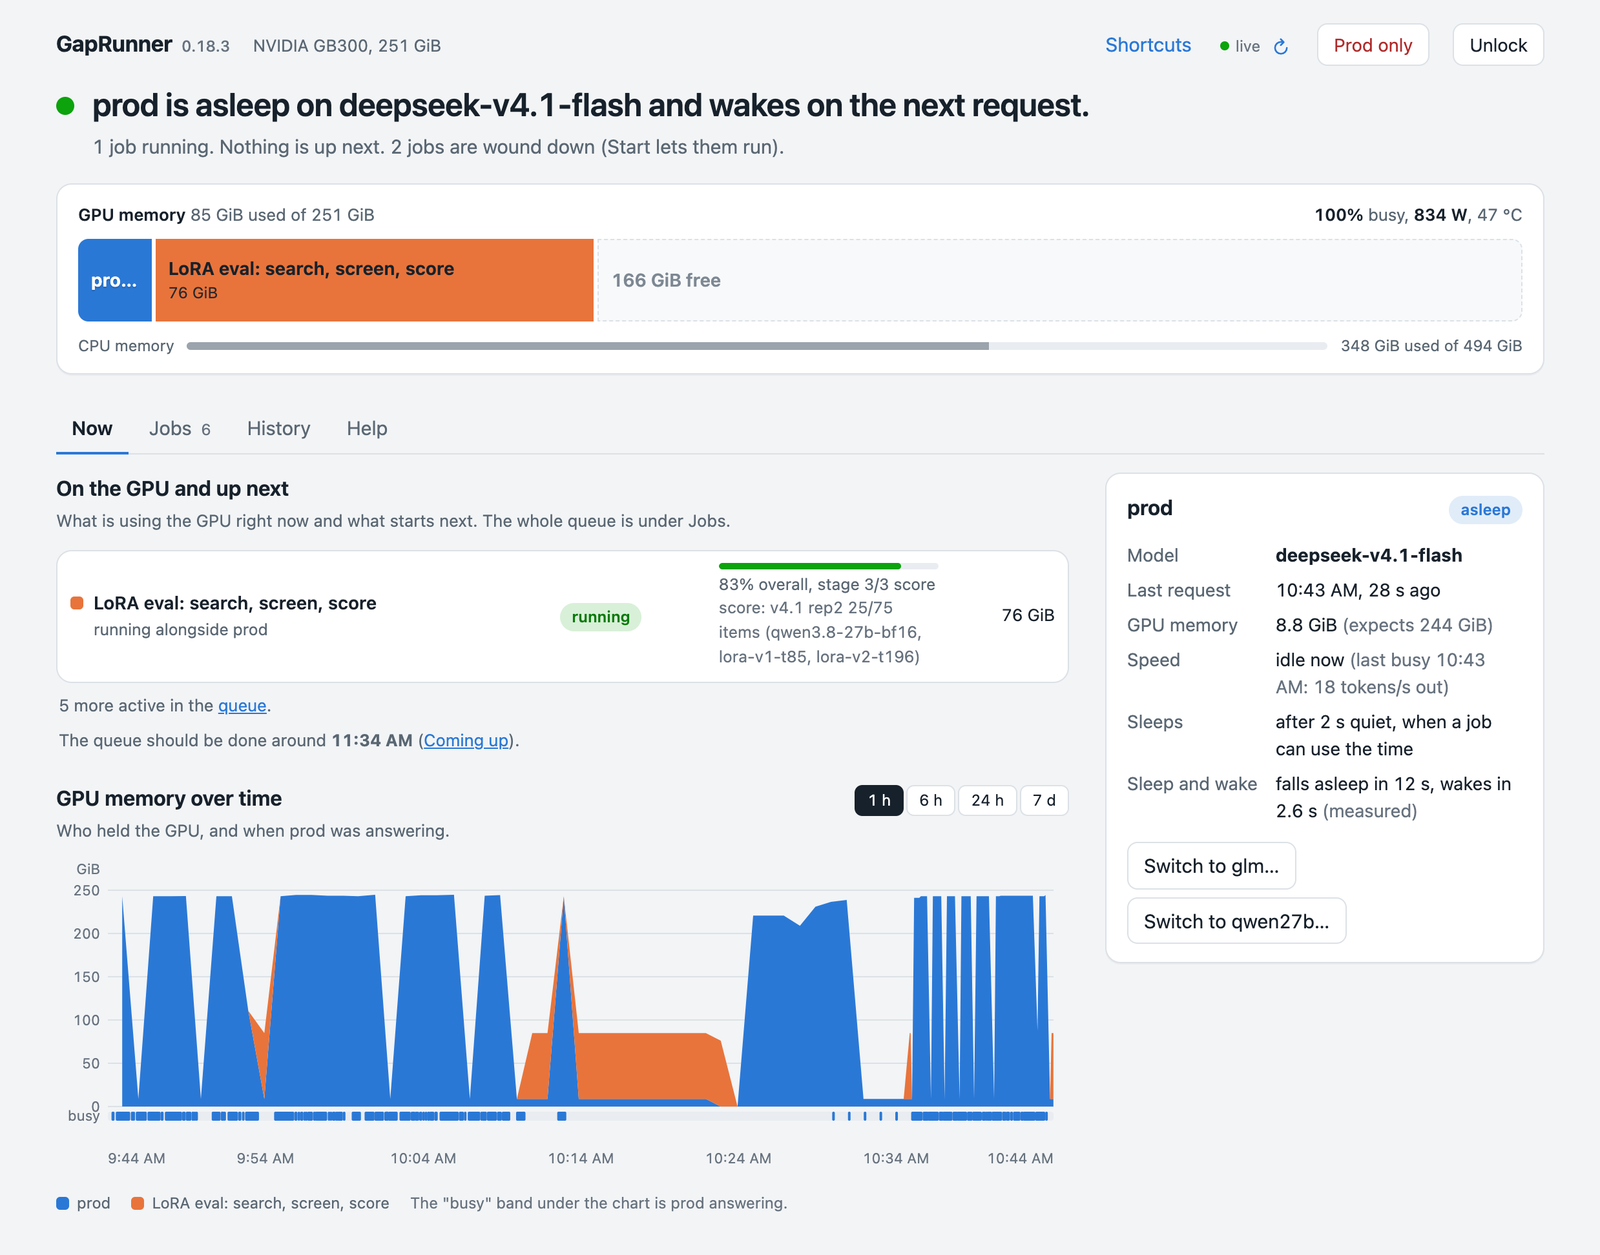
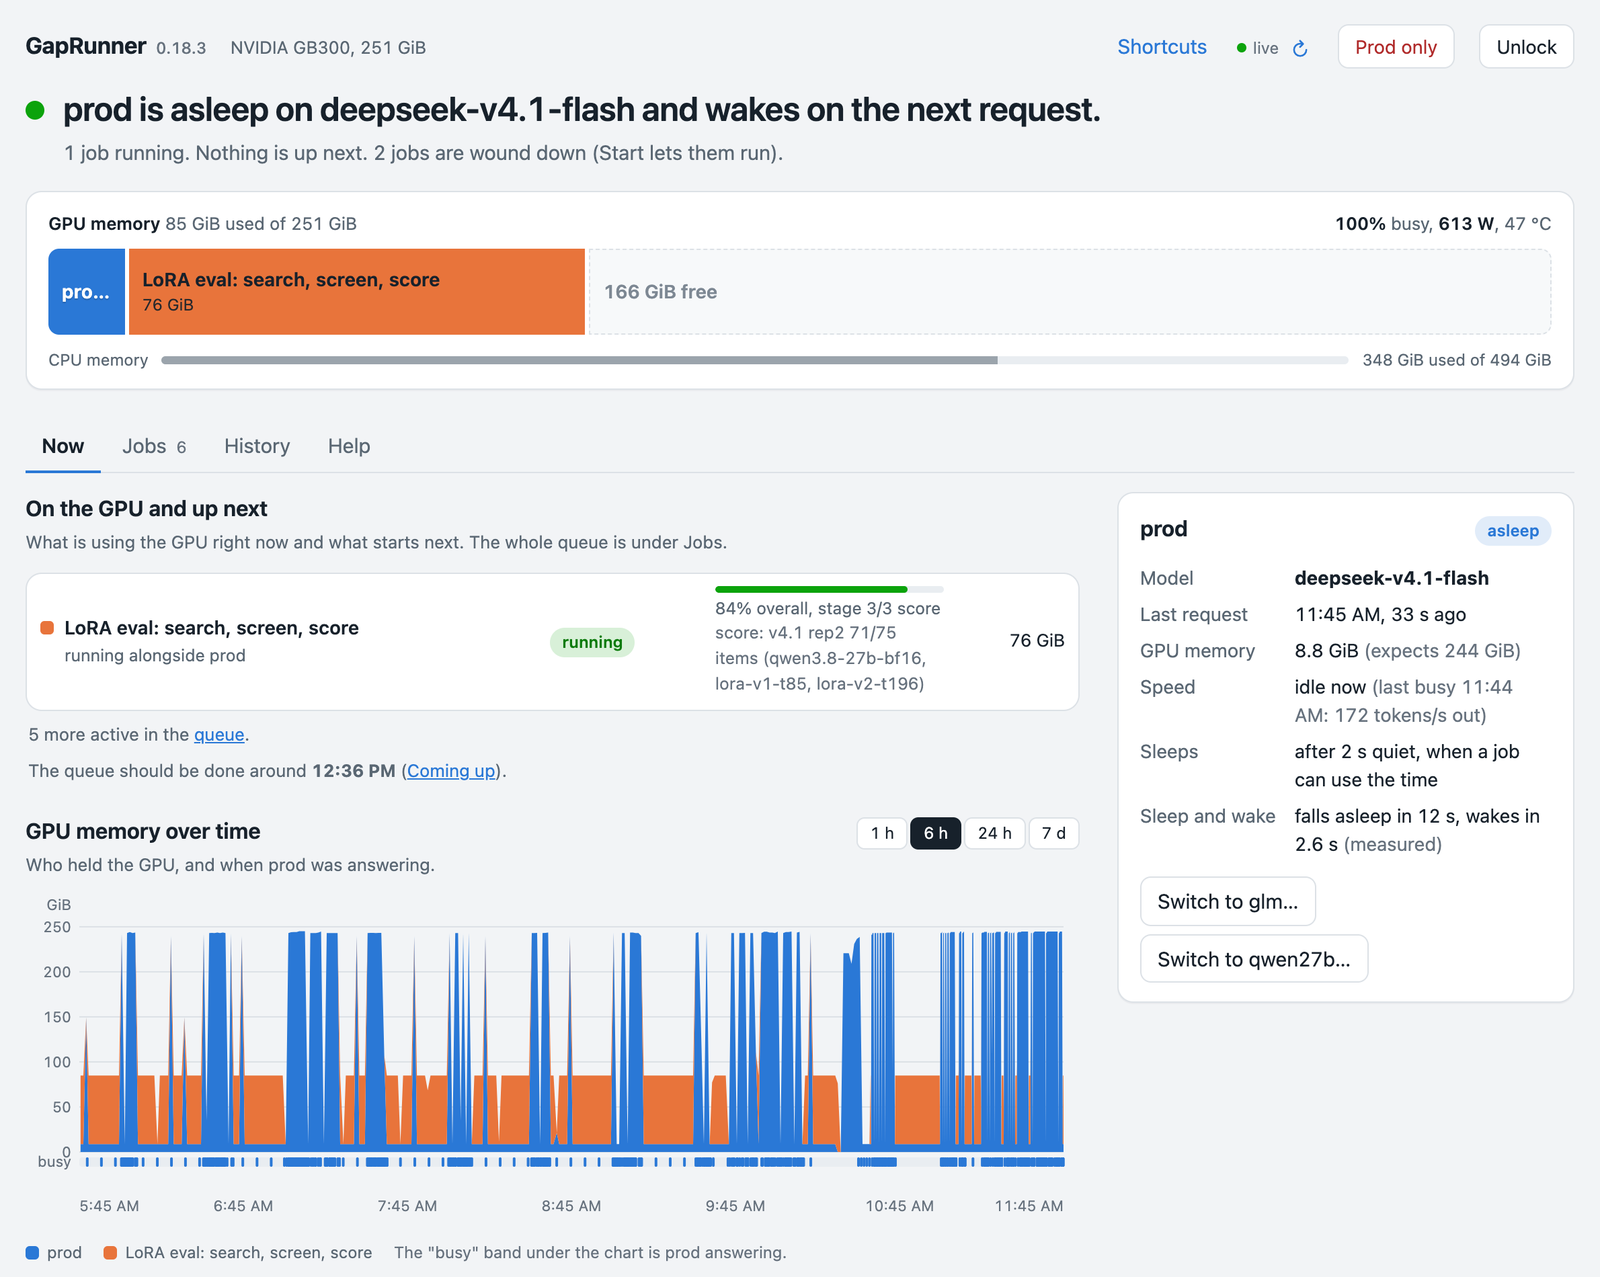
README: six-hour screenshot of the Now page

diff --git a/README.md b/README.md
@@ -2,7 +2,7 @@
 
 **Run training, evals and benchmarks in the idle gaps of your always-on local model, and give the GPU back the moment a request arrives.**
 
-![The GapRunner page: the model server asleep, an eval job holding 76 GiB of GPU memory, and the last hour of the two taking turns](docs/images/gaprunner-now.png)
+![The GapRunner page: the model server asleep, an eval job holding 76 GiB of GPU memory, and the last six hours of the two taking turns](docs/images/gaprunner-now.png)
 
 A local model server sits on the GPU all day. Between requests it is mostly idle, while your training runs, evals
 and benchmarks wait for a free GPU. GapRunner hands those idle gaps to the waiting jobs. When a request comes in, the
